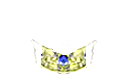
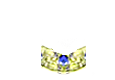
Ornate Collar added (#535)
* dialog and diamond tie

* Diamond harness rework

* Delete HempRopeHarness_XlargeDiamond.png

* Add files via upload

* 11

diff --git a/BondageClub/Assets/Female3DCG/Female3DCG.js b/BondageClub/Assets/Female3DCG/Female3DCG.js
@@ -1057,7 +1057,7 @@ var AssetFemale3DCG = [
 			{ Name: "LeatherCollar", Value: 20, Time: 5, Difficulty: 50, AllowLock: true },
 			{ Name: "LeatherCollarBell", Value: 30, Time: 5, Difficulty: 50, AllowLock: true },
 			{ Name: "LeatherCollarBow", Value: 25, Time: 5, Difficulty: 50, AllowLock: true },
-			{ Name: "SlaveCollar", Priority: 35, Random: false, Effect: ["Lock"], OwnerOnly: true, Extended: true, Enable: false, Value: -1, Time: 5, Difficulty: 50, AllowType: ["SteelPosture", "LeatherPosture", "PetCollar", "HighCollar", "LeatherCollarBell", "LeatherCollarBow", "MaidCollar", "BatCollar", "HighSecurityCollar", "SpikeCollar", "BordelleCollar", "LeatherCorsetCollar", "StrictPostureCollar", "LatexPostureCollar", "HeartCollar", "NobleCorsetCollar"]},
+			{ Name: "SlaveCollar", Priority: 35, Random: false, Effect: ["Lock"], OwnerOnly: true, Extended: true, Enable: false, Value: -1, Time: 5, Difficulty: 50, AllowType: ["SteelPosture", "LeatherPosture", "PetCollar", "HighCollar", "LeatherCollarBell", "LeatherCollarBow", "MaidCollar", "BatCollar", "HighSecurityCollar", "SpikeCollar", "BordelleCollar", "LeatherCorsetCollar", "StrictPostureCollar", "LatexPostureCollar", "HeartCollar", "NobleCorsetCollar", "OrnateCollar"]},
 			{ Name: "ClubSlaveCollar", Random: false, Effect: ["Lock"], Enable: false, Value: -1, Time: 5, Difficulty: 50, ExpressionTrigger: [{ Group: "Blush", Name: "Medium", Timer: 15 }] },
 			{ Name: "ShockCollar", Random: false, Extended: true, Effect: ["ReceiveShock"], BuyGroup: "ShockCollar", Value: 80, Time: 15, Difficulty: 50, AllowLock: true, ExpressionTrigger: [{ Group: "Eyebrows", Name: "Soft", Timer: 10 }] },
 			{ Name: "ShockCollarRemote", Random: false, Wear: false, Effect: ["TriggerShock"], BuyGroup: "ShockCollar", Value: -1, ExpressionTrigger: [{ Group: "Eyebrows", Name: "Soft", Timer: 10 }, { Group: "Blush", Name: "Soft", Timer: 15 }, { Group: "Eyes", Name: "Closed", Timer: 5 }] },

diff --git a/BondageClub/Screens/Inventory/ItemNeck/SlaveCollar/SlaveCollar.js b/BondageClub/Screens/Inventory/ItemNeck/SlaveCollar/SlaveCollar.js
@@ -73,6 +73,10 @@ var InventoryItemNeckSlaveCollarTypes = [
         Name: "NobleCorsetCollar",
         Image: "NobleCorsetCollar",
         Property: { Type: "NobleCorsetCollar", Effect: [], Block: [] }
+	},{
+        Name: "OrnateCollar",
+        Image: "OrnateCollar",
+        Property: { Type: "OrnateCollar", Effect: [], Block: [] }
 	},
 ];
 
